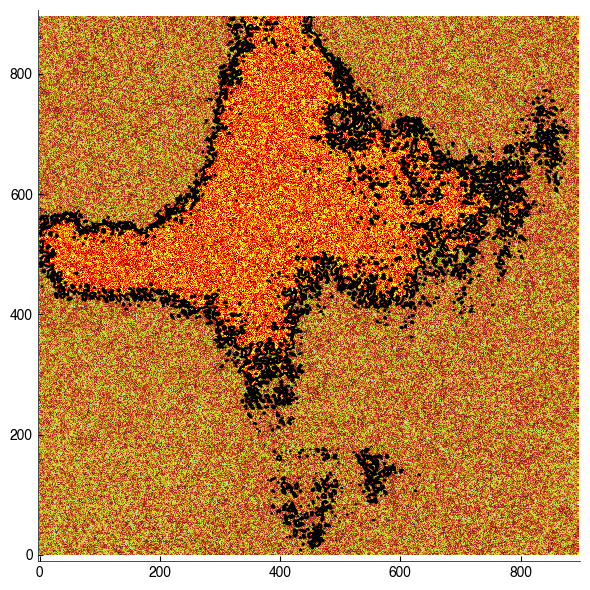
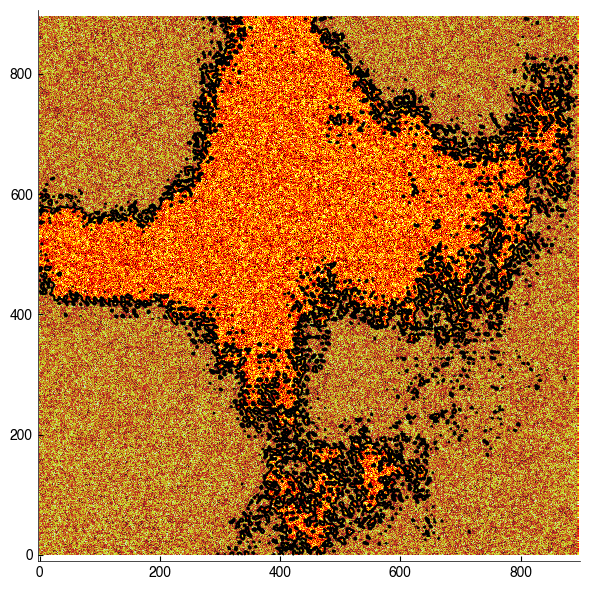
mirror

Changed region(s): [[0.061, 0.0305, 0.9763, 0.9458], [0.8847, 0.6102, 0.9153, 0.6712], [0.8847, 0.0305, 0.9153, 0.061]]

diff --git a/src/find_crystal.py b/src/find_crystal.py
@@ -16,12 +16,9 @@ convolutions = []
 data= np.load("../exp-data/0.524squ.npy")
 kernel= np.load("../exp-data/kernel.npy")
 
-nrotations = 7
-nrotations += 1
-dtheta = 360/nrotations
-for i in range(nrotations):
-    angle = i*dtheta
-    k = ndimage.rotate(kernel,angle)
+nrotations = 1
+for angle in np.linspace(0,360,nrotations):
+    k = ndimage.rotate(kernel,angle, mode="mirror")
     conv = signal.fftconvolve(data, k, mode='same')
     convolutions.append(conv)
 
@@ -34,14 +31,17 @@ poolmax = convolutions.max(axis=0)
 # remove a border of thinkess kernel/2
 b = int(kernel.shape[0]/2)
 without_border = poolmax[b:-b, b:-b]
-# plot the intensiti histogram
-# plt.hist(without_border.ravel(), bins=100)
+# plot the intensity histogram
+plt.hist(without_border.ravel(), bins=100)
+# plt.figure()
+# plt.matshow(without_border)
+# plt.show()
 # plt.figure()
 
 #gaussian mixture model: decompose the intesnity histogram into 3 gaussians: liquid, interface,crystal
 X =np.empty(  (len(without_border.ravel()),1) )
 X[:,0] = without_border.ravel()
-gm = GaussianMixture(n_components=4, random_state=0).fit(X)
+gm = GaussianMixture(n_components=3, random_state=0).fit(X)
 mean = gm.means_
 #  use the model to label the image
 u = gm.predict(X)
@@ -54,8 +54,8 @@ labelled = u.reshape(without_border.shape)
 plt.figure(figsize=(6,6))
 plt.pcolormesh(data[b:-b,b:-b], cmap = plt.cm.hot)
 
-plt.contourf((labelled==crystal_label_1)+(labelled==crystal_label_2)+(labelled==crystal_label_3), [.5, 1.5], alpha=0.25)#, alpha=0.03, cmap=plt.cm.binary)
-plt.contour((labelled==crystal_label_1)+(labelled==crystal_label_2)+(labelled==crystal_label_3), [.5], colors="k")
+plt.contourf((labelled==crystal_label_1)+(labelled==crystal_label_2), [.5, 1.5], alpha=0.25)#, alpha=0.03, cmap=plt.cm.binary)
+plt.contour((labelled==crystal_label_1)+(labelled==crystal_label_2), [.5], colors="k")
 
 plt.axis('equal')
 plt.xlim(0, without_border.shape[1])
